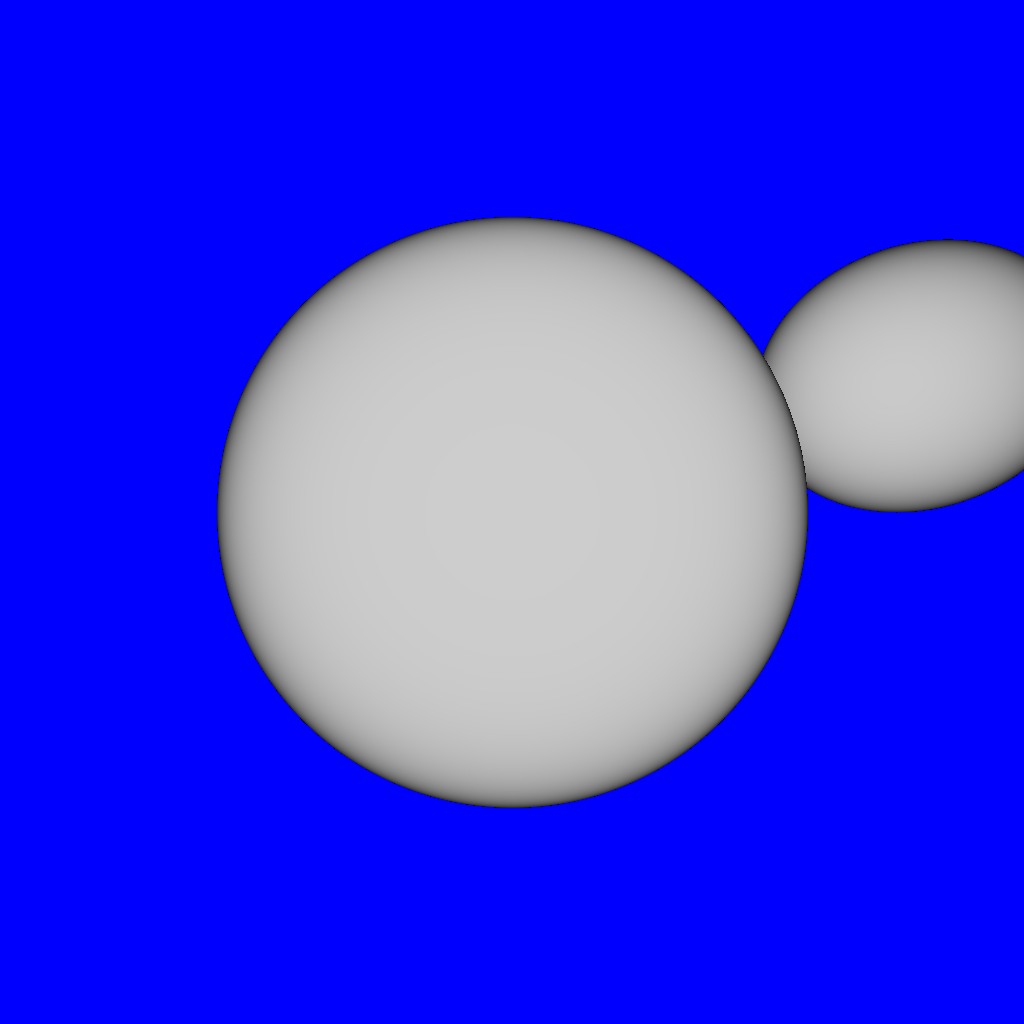
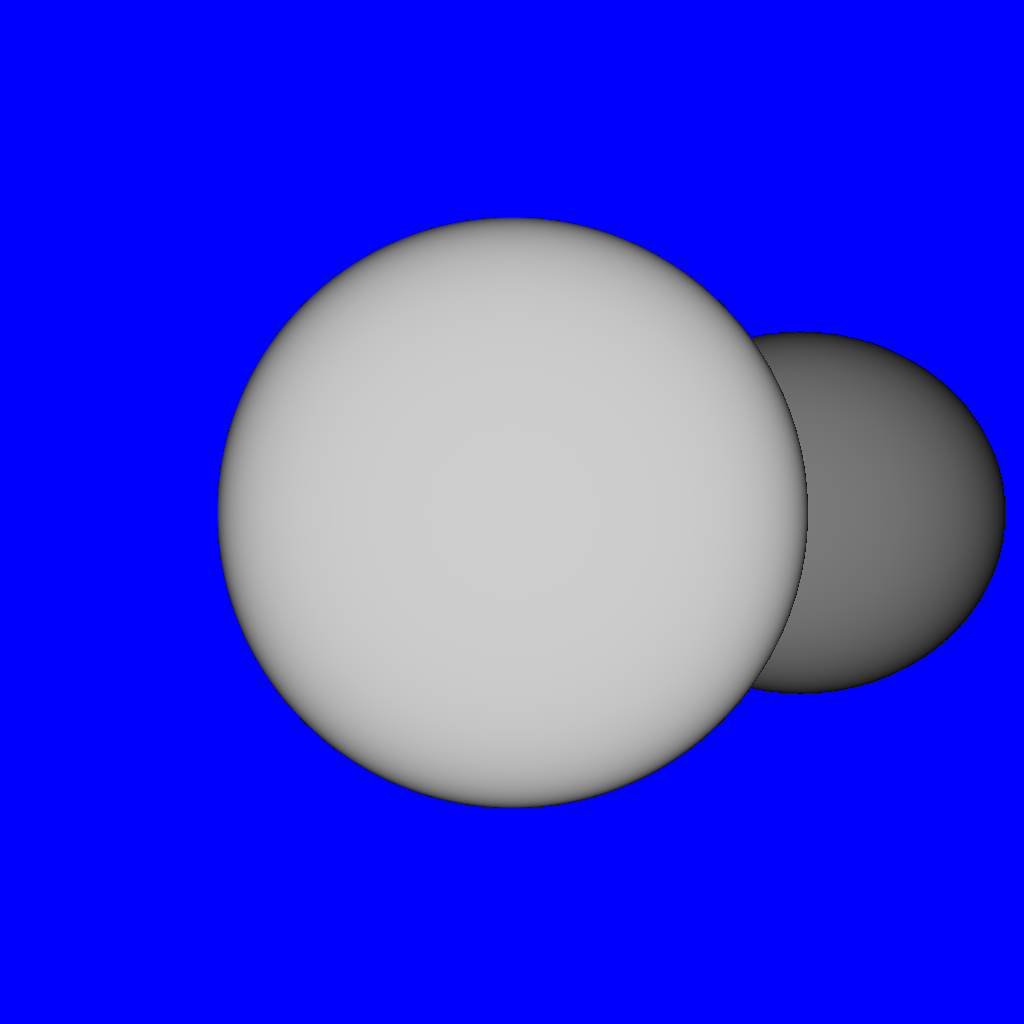
Broke some stuff. Fixed some stuff. Many issues remaining!

Changed region(s): [[0.7188, 0.2188, 1.0, 0.6875]]

diff --git a/Scene.java b/Scene.java
@@ -1,5 +1,6 @@
 import java.util.*;
 import java.io.*;
+//TODO: Lowering a lightsource raises the light in the scene???
 public class Scene {
     private Camera camera;
     private Sphere[] shapes;
@@ -9,7 +10,7 @@ public class Scene {
     public Scene(Sphere[] shapes) {
         this.camera = new Camera();
         this.shapes = shapes;
-        this.light = new LightSource(new Vector3(0,0,0));
+        this.light = new LightSource(new Vector3(-2,0,3));
         backgroundColour = Rgb.BLUE;
     }
 
@@ -19,9 +20,10 @@ public class Scene {
         double w_unit = 2 / ((double) width);
         double h_unit = 2 / ((double) height);
         for (int h = 0; h < height; h++) {
-            double h_d = 1 - (h_unit * h);
+            double h_d = 1 - (h_unit * (h+1));
+            System.out.println("h: " + h_d);
             for (int w = 0; w < width; w++) {
-                double w_d = 1 - (w_unit * w);
+                double w_d = 1 - (w_unit * (w+1));
                 Vector3 pos = new Vector3(w_d, h_d, 1);
                 Vector3 dir = Vector3.fromTo(Vector3.ZERO, pos);
                 //System.out.println("pos: " + pos.toString());
@@ -36,7 +38,7 @@ public class Scene {
                         Vector3.add(ray.getOrigin(), Vector3.scale(ray.getDirection(),i.getT()));
                     Vector3 normal = Vector3.fromTo(obj.getPosition(), intersectPoint);
                     double brightness = light.brightness(intersectPoint, normal);
-                    System.out.println("b: " + brightness);
+                    //System.out.println("b: " + brightness);
                     //raster[h][w] = obj.getColour();
                     raster[h][w] = new Rgb(brightness, brightness, brightness);
                 }
@@ -74,11 +76,11 @@ public class Scene {
     }
 
     public static void main (String[] args) throws IOException {
-        Sphere s1 = new Sphere(new Vector3(0,0,2), 1.0, Rgb.RED);
-        Sphere s2 = new Sphere(new Vector3(-1.5,0.5,2), 0.5, Rgb.GREEN);
-        Sphere[] spheres = {s1,s2};
+        Sphere s1 = new Sphere(new Vector3(0,1,3), 1.0, Rgb.RED);
+        //Sphere s2 = new Sphere(new Vector3(-1.5,0,3), 1.0, Rgb.GREEN);
+        Sphere[] spheres = {s1};
         Scene sc = new Scene(spheres);
         Image i = new Image(1024, 1024, sc.toRaster(1024, 1024));
-        i.writeToFile("test1");
+        i.writeToFile("test2");
     }
 }

diff --git a/LightSource.java b/LightSource.java
@@ -10,7 +10,19 @@ public class LightSource extends Object {
     public double brightness(Vector3 pos, Vector3 normal) {
         Vector3 between = Vector3.fromTo(this.position, pos);
         double m = Vector3.magnitude(between);
-        double b = brightness * Math.cos(Vector3.angle(between, normal)) / Math.pow(m,2);
+        double b = brightness * Math.cos(Vector3.angle(between, normal)) / Math.pow(m,1.5);
+        /*
+        if (b < 0) {
+            System.out.println("m: " + m);
+            System.out.println("a: " + Math.cos(Vector3.angle(between, normal)));
+            System.out.println("power:" + Math.pow(m,1.5));
+            System.out.println("b:" + b);
+        } */
+        //TODO: How do I deal with negative values?
+        if (b < 0) {
+            return 0;
+        }
+        //TODO: How can I avoid using tanh?
         return Math.tanh(b);
     }
 }

diff --git a/Sphere.java b/Sphere.java
@@ -23,9 +23,10 @@ public class Sphere extends Object{
         double t1 = ((-1 * b) + Math.sqrt(Math.pow(b,2) - 4*a*c)) / (2 * a);
         double t2 = ((-1 * b) - Math.sqrt(Math.pow(b,2) - 4*a*c)) / (2 * a);
         //TODO: figure out what to do with t2
-        if (Double.isNaN(t1)) {
+
+        if (Double.isNaN(t2)) {
             return null;
         }
-        return new Intersection(t1, this);
+        return new Intersection(t2, this);
     }
 }
